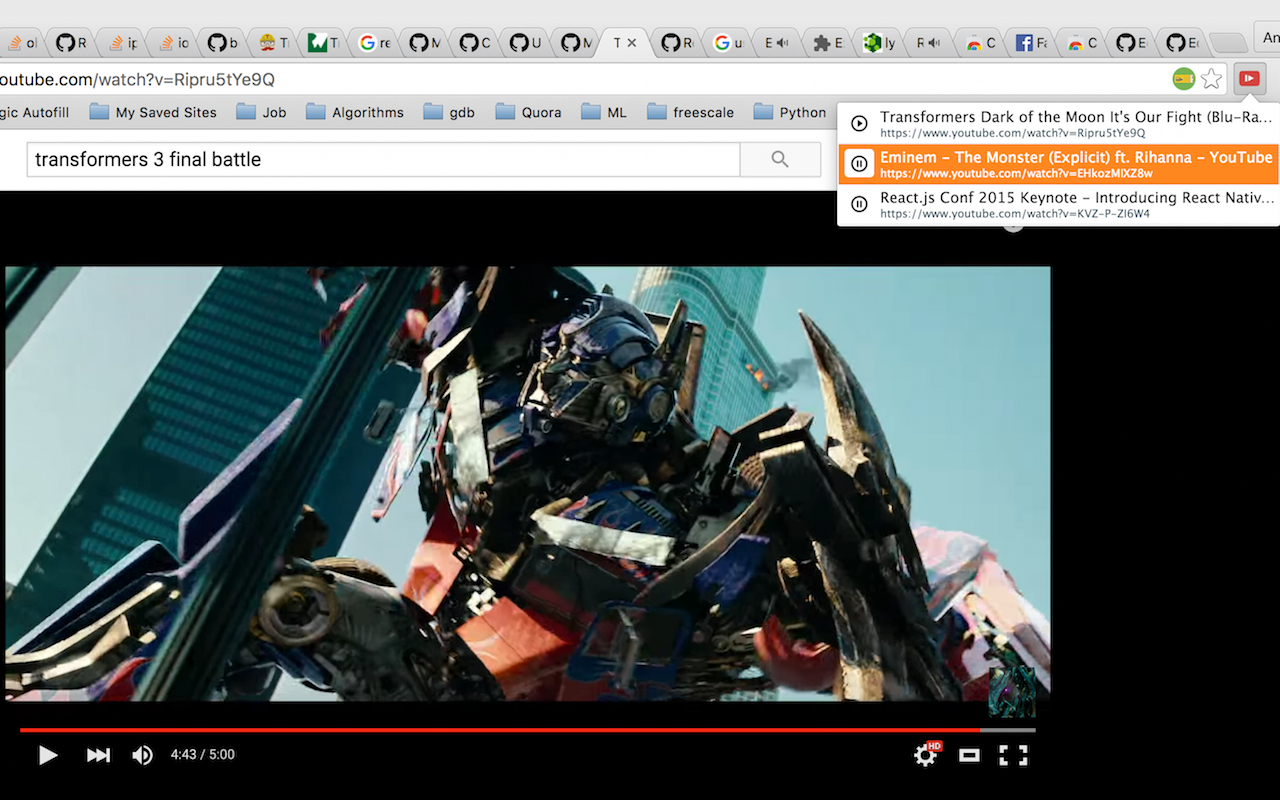
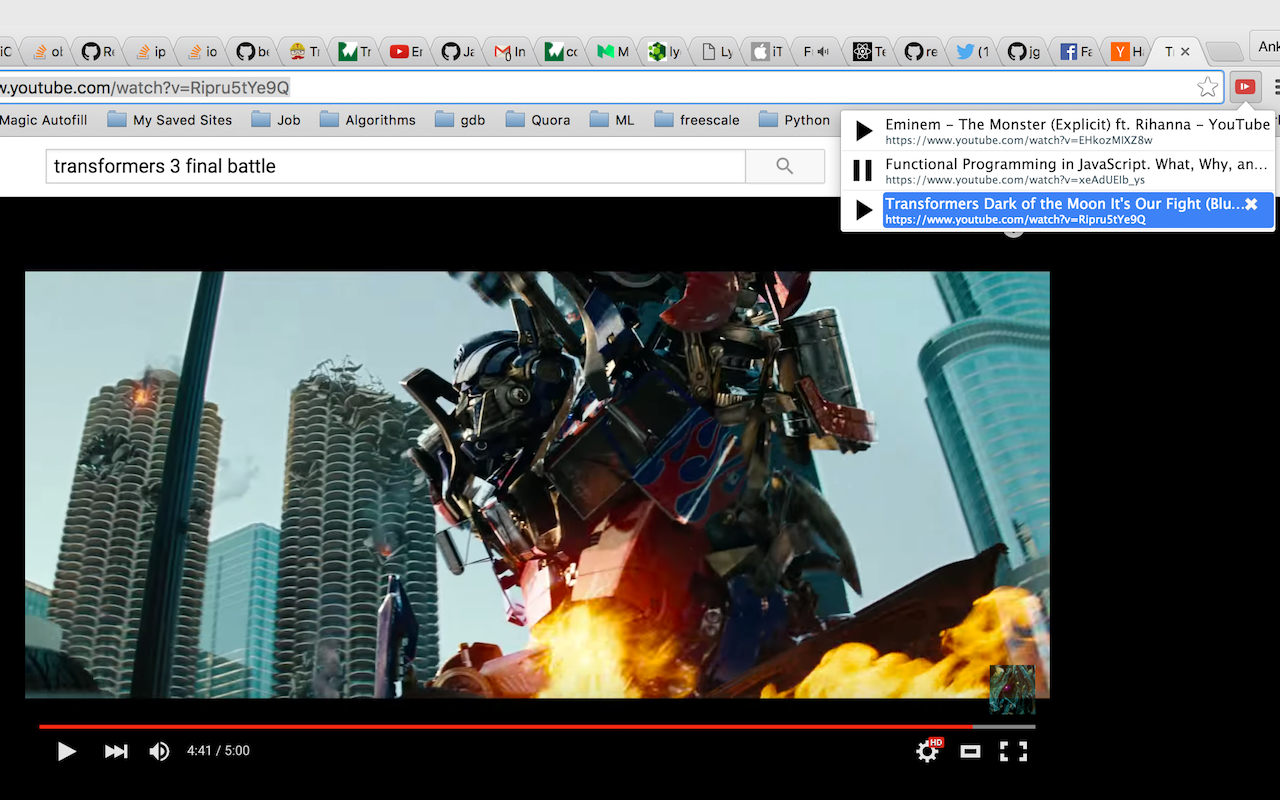
Updated UI and added jump and close tab functionality

diff --git a/views/popup/popup.js b/views/popup/popup.js
@@ -3,32 +3,45 @@ var queryInfo = {url: matchUrl};
 chrome.tabs.query(queryInfo, function(tabs) {
 	var cl = $('#content-list');
 	tabs.forEach(function(tab) {
-		var imageName = tab.audible ? 'pause.png' : 'play.png';
+		var imageClass = tab.audible ? 'pauseImage' : 'playImage';
 		var x = `
 			<div class="item tab open" id=${tab.id}>
-				<div class="tabimage">
-					<img src="/assets/${imageName}" width="16" height="16" border="0">
+				<div class="tabimage" id="playpause${tab.id}">
+					<img class="${imageClass}" id="playImage${tab.id}" border="0">
 				</div>
-				<div>
+				<div class="tabInfo" id="jump${tab.id}">
+					<div class="close" id="close${tab.id}" title="close tab"></div>
 					<div class="title">${tab.title}</div>
 					<div class="url">${tab.url}</div>
 				</div>
 			</div>
 		`
 		cl.append($(x));
-		$('#'+tab.id).on('click', {tabId: tab.id}, function(event) {
+
+		$('#playpause'+tab.id).on('click', {tabId: tab.id}, function(event) {
 			console.log('Clicked tab with event state ', event.data.tabId);
 			chrome.tabs.sendMessage(event.data.tabId, {message: 'toggle_video_state', tabId: event.data.tabId}, function(response) {
 				if (response.error) {
 					console.log('No video found in tab');
 				} else {
 					if (response.paused) {
-						$('#' + response.tabId + ' img').attr('src', '/assets/play.png');
+						$('#playpause' + response.tabId + ' img').attr('class', 'playImage');
 					} else {
-						$('#' + response.tabId + ' img').attr('src', '/assets/pause.png');
+						$('#playpause' + response.tabId + ' img').attr('class', 'pauseImage');
 					}
 				}
 			});
+		});
+
+		$('#jump'+tab.id).on('click', {tabId: tab.id, windowId: tab.windowId}, function(event) {
+			console.log('Clicked tab with event state ', event.data.tabId);
+			chrome.windows.update(event.data.windowId, {focused: true});
+			chrome.tabs.update(event.data.tabId, {active: true});
+		});
+
+		$('#close'+tab.id).on('click', {tabId: tab.id}, function(event) {
+			console.log('Clicked tab with event state ', event.data.tabId);
+			chrome.tabs.remove(event.data.tabId);
 		});
 	});
 	if (tabs.length == 0) {

diff --git a/views/popup/styles-popup.css b/views/popup/styles-popup.css
@@ -73,28 +73,24 @@ b {
   color:white;
 }
 
-.item:hover b {
-  color:white;
-}
-
 .item {
   padding-top: 1px;
   padding-bottom: 1px;
-  clear:both;
+  clear: both;
   height: 30px;
   cursor: hand;
   border-bottom: 1px solid rgba(0,0,0,0.07);
+  display: flex;
 }
 
 div.tabimage {
-	float: left;
+  margin: 0 2px 0 2px;
 }
 
 div.tabimage img {
   vertical-align: middle;
-  padding: 4px 4px 3px 4px;
-  margin: 3px 5px 0 5px;
   border-radius: 3px;
+  height: 100%;
 }
 
 div.hideicon img {
@@ -106,8 +102,7 @@ div.hideicon {
   height: 25px;
 }
 
-div.open:hover div.close,
-div.withfocus.open div.close {
+div.tabInfo:hover div.close {
   display: inline;
   position: relative;
   float: right;
@@ -117,7 +112,7 @@ div.withfocus.open div.close {
 }
 
 div.close {
-  background: url(close.png) no-repeat;
+  background: url(../../assets/close.png) no-repeat;
   background-size: 12px 12px;
   display: none;
   height: 18px;
@@ -156,10 +151,34 @@ div.content {
   overflow-x: hidden;
 }
 
-.item:hover, .item:hover div.title, div.closed.item:hover div.title,
-.item:hover div.url {
-  background-color: #ff8732;
+div.tabInfo {
+  flex: 1;
+  padding: 0 2px 0 2px;
+  border-radius: 3px;
+}
+
+img.playImage {
+  content: url('/assets/play.png');
+}
+
+img.playImage:hover {
+  content: url('/assets/playHover.png');
+}
+
+img.pauseImage {
+  content: url('/assets/pause.png');
+}
+
+img.pauseImage:hover {
+  content: url('/assets/pauseHover.png');
+}
+
+.tabInfo:hover, .tabInfo:hover div.title, .tabInfo:hover div.url {
   color: white;
+}
+
+.tabInfo:hover {
+  background-color: #4285f4;
 }
 
 .withfocus:hover, .withfocus:hover div.title, div.closed.withfocus:hover div.title,
@@ -171,7 +190,6 @@ div.content {
 }
 
 img {
-  padding-top: 4px;
   background-color: white;
 }
 
